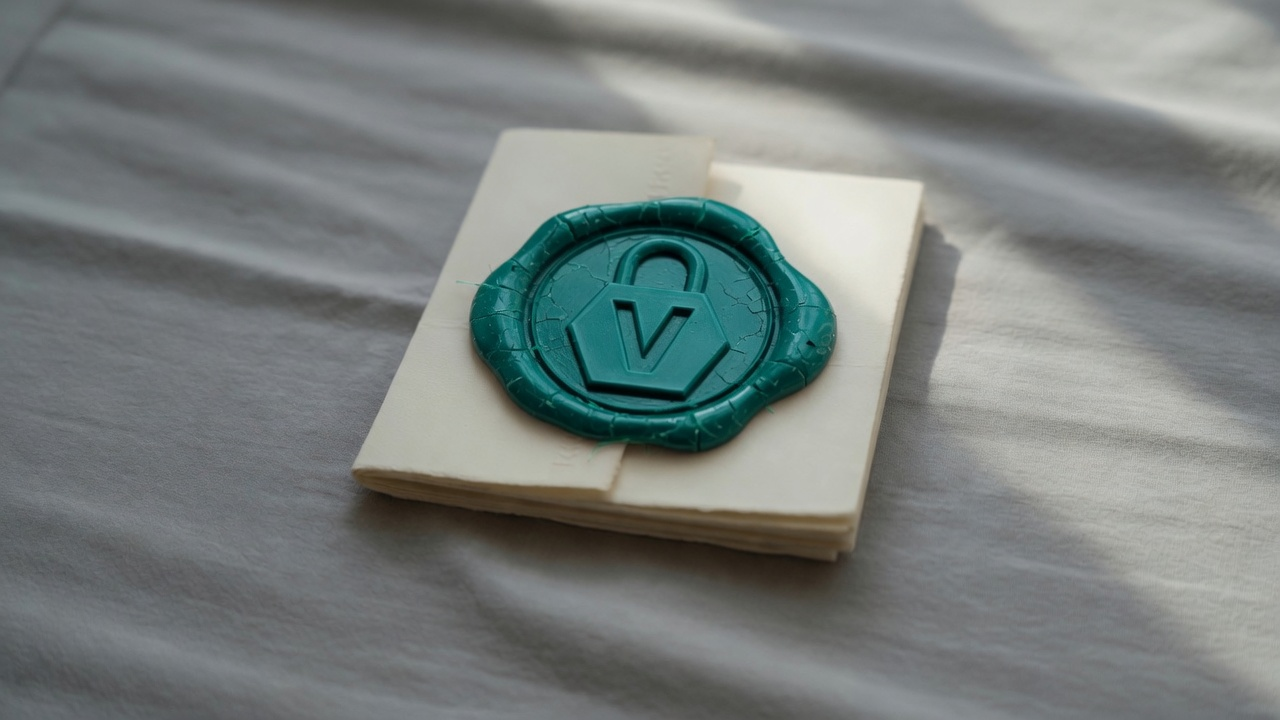
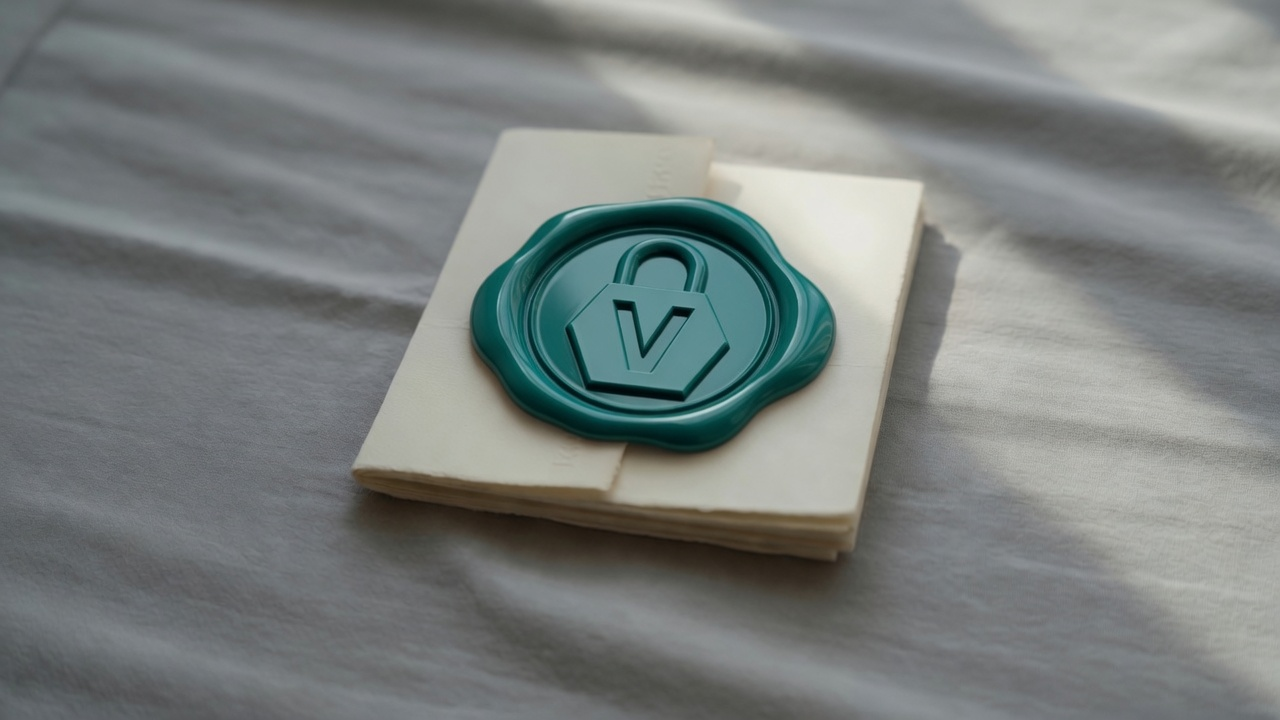
Polish sticky header frost and refresh Create & seal still.
Make .lr-header blur readable with a more translucent fill, swap the
creator path image to the wax-seal still with centered crops, and treat
iPadOS as mobile for the Hub login sheet.

Changed region(s): [[0.375, 0.275, 0.6562, 0.6111]]

diff --git a/client/src/App.css b/client/src/App.css
@@ -139,9 +139,16 @@ body[data-verilock-surface='journey'] #root::after {
   /* Extend under the status bar; keep brand/actions below the notch. */
   padding: env(safe-area-inset-top, 0px) 0 0;
   border-bottom: 1px solid var(--lr-line);
-  background: rgba(255, 255, 255, 0.92);
-  backdrop-filter: blur(12px);
-  -webkit-backdrop-filter: blur(12px);
+  /* Translucent fill so frosted blur reads when content scrolls under. */
+  background: rgba(255, 255, 255, 0.72);
+  backdrop-filter: blur(16px) saturate(1.15);
+  -webkit-backdrop-filter: blur(16px) saturate(1.15);
+}
+
+@supports not ((-webkit-backdrop-filter: blur(1px)) or (backdrop-filter: blur(1px))) {
+  .lr-header {
+    background: rgba(255, 255, 255, 0.96);
+  }
 }
 
 .lr-header-inner {

diff --git a/client/src/nimiq.ts b/client/src/nimiq.ts
@@ -847,7 +847,14 @@ export const NIMIQ_PAY_ANDROID_URL =
 
 export function isMobileDevice(): boolean {
   if (typeof navigator === 'undefined') return false
-  return /Android|iPhone|iPad|iPod/i.test(navigator.userAgent)
+  if (/Android|iPhone|iPad|iPod/i.test(navigator.userAgent)) return true
+  // iPadOS 13+ often reports as Macintosh (desktop UA) with multi-touch.
+  // Without this, Login skips the mobile sheet and jumps straight to Hub.
+  return (
+    navigator.platform === 'MacIntel' &&
+    typeof navigator.maxTouchPoints === 'number' &&
+    navigator.maxTouchPoints > 1
+  )
 }
 
 export function getMiniAppWebUrl(appUrl?: string): string {

diff --git a/client/src/landing/pathMedia.ts b/client/src/landing/pathMedia.ts
@@ -15,12 +15,13 @@ export type PathPlacements = {
 /** Locked focal crops (0–100%) + zoom for path cards and track banners. */
 export const PATH_PLACEMENTS: PathPlacements = {
   card: {
-    creator: { x: 39, y: 55, zoom: 1 },
+    /* Wax seal on papers — keep lock mark centered in the path thumb. */
+    creator: { x: 50, y: 48, zoom: 1 },
     signer: { x: 54.5, y: 51, zoom: 1 },
     verifier: { x: 46.5, y: 36, zoom: 1 },
   },
   track: {
-    creator: { x: 52, y: 40, zoom: 1 },
+    creator: { x: 50, y: 46, zoom: 1 },
     signer: { x: 44, y: 49, zoom: 1 },
     verifier: { x: 48.5, y: 73, zoom: 1 },
   },